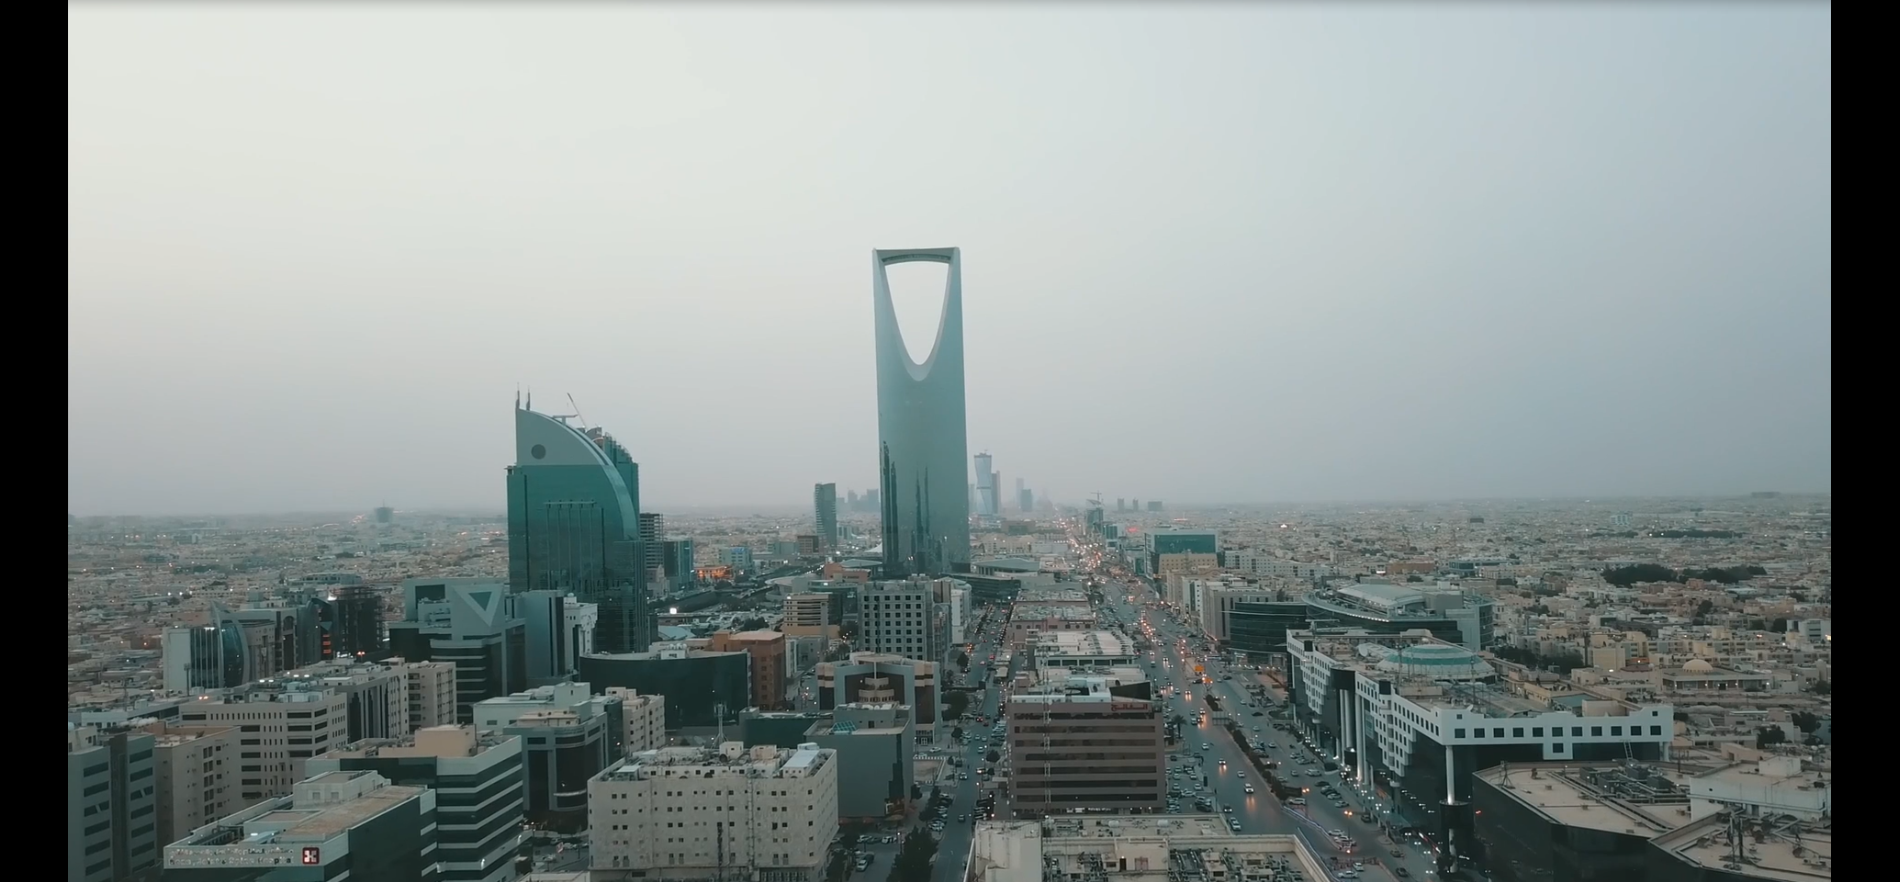
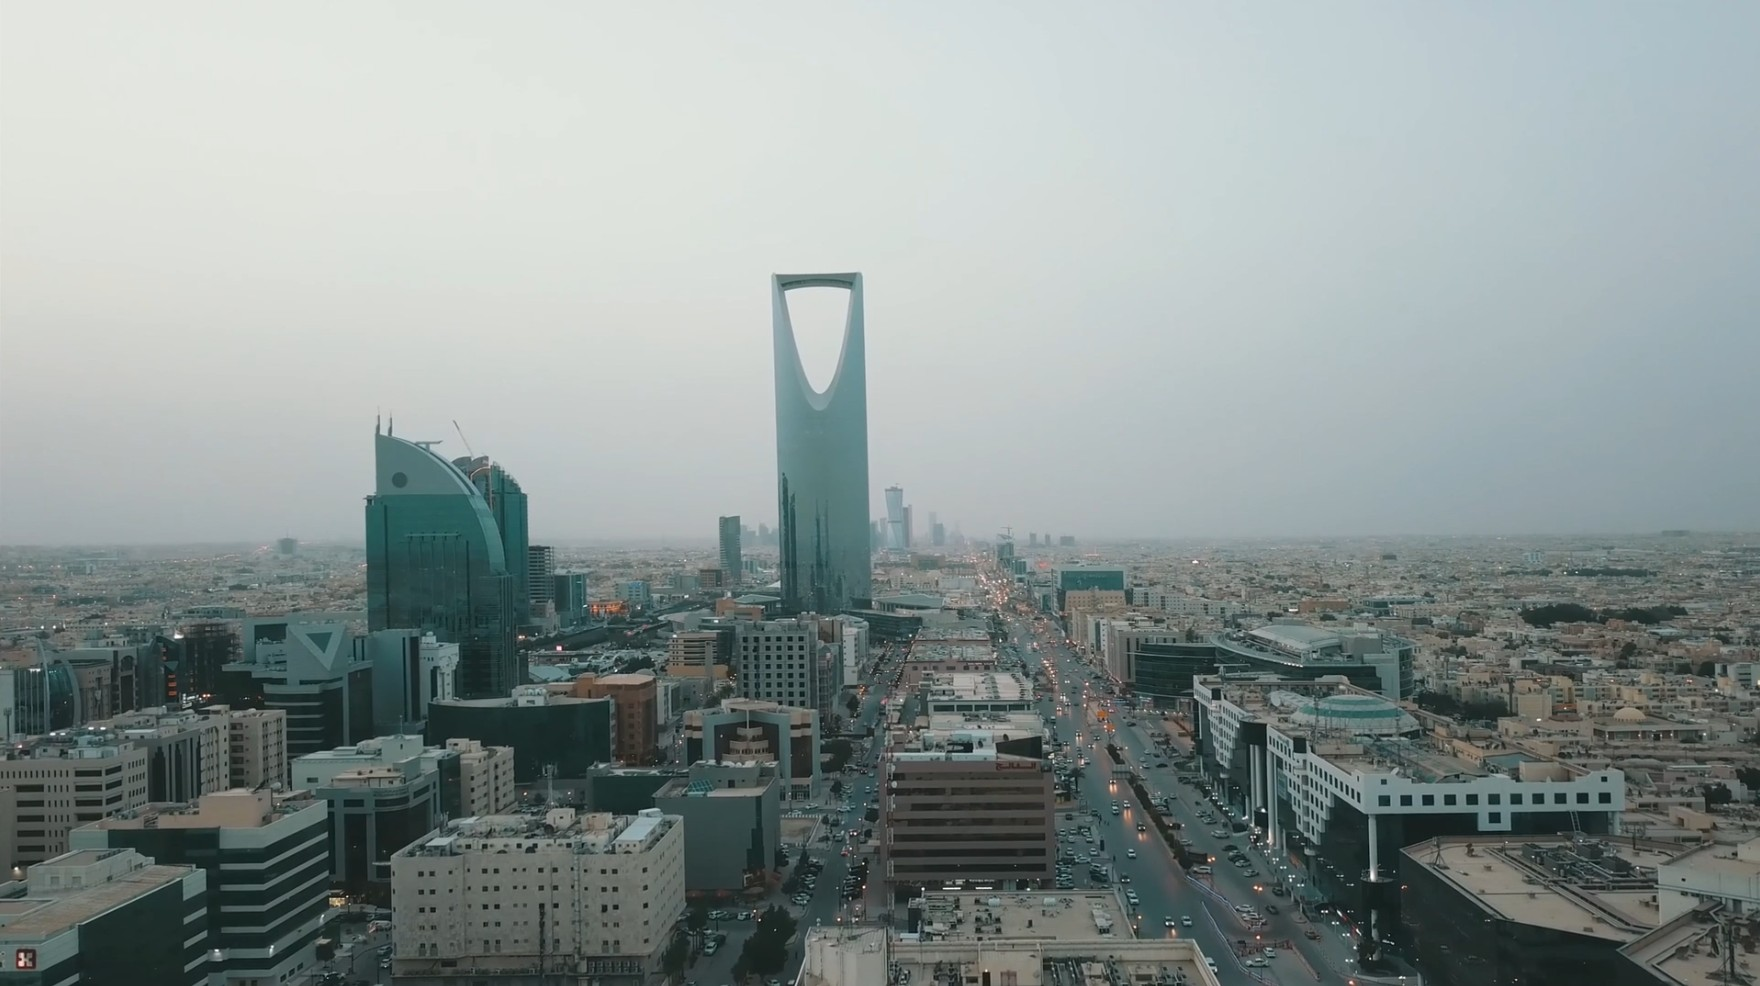
...

diff --git a/components/Hero.tsx b/components/Hero.tsx
@@ -18,7 +18,7 @@ const Hero: React.FC = () => {
   };
 
   //const videoSrc = '/videos/hero-background.mp4';
-  const videoSrc = 'https://streamable.com/zw8osw';
+  const videoSrc = 'https://res.cloudinary.com/dzipj6lnb/video/upload/v1772364281/hero-background_czfzbd.mp4';
   const fallbackImage = '/images/homepage.jpg';
 
   // Values bullet points
